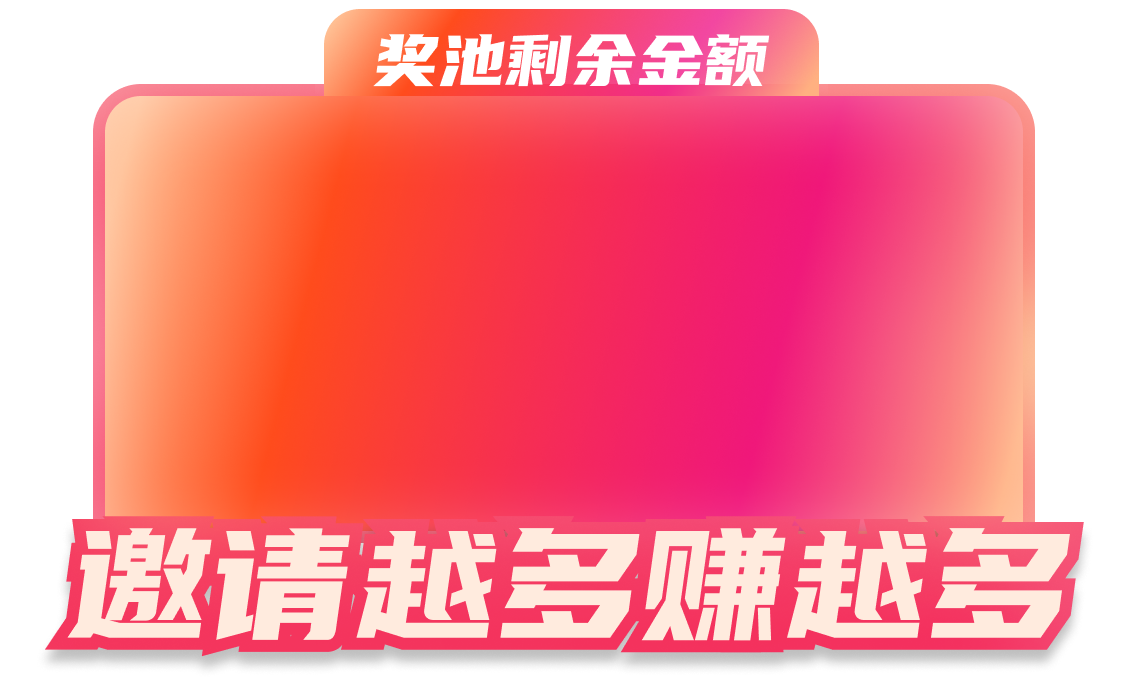
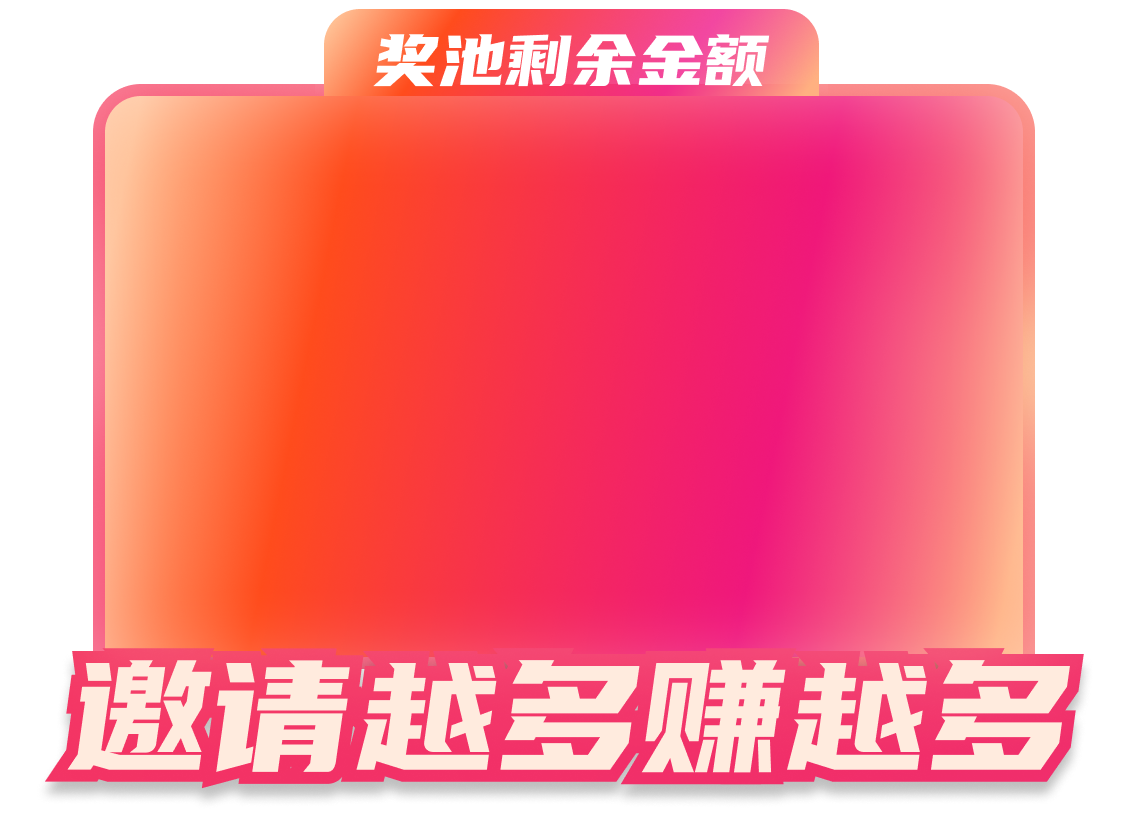
update

diff --git a/src/lib/deviceInfo.ts b/src/lib/deviceInfo.ts
@@ -14,7 +14,7 @@ interface DeviceInfo {
 }
 
 // Application version - single source of truth
-const APP_VERSION = '1.1.6.9';
+export const APP_VERSION = '1.1.6.9';
 
 /**
  * Generate a UUID v4
